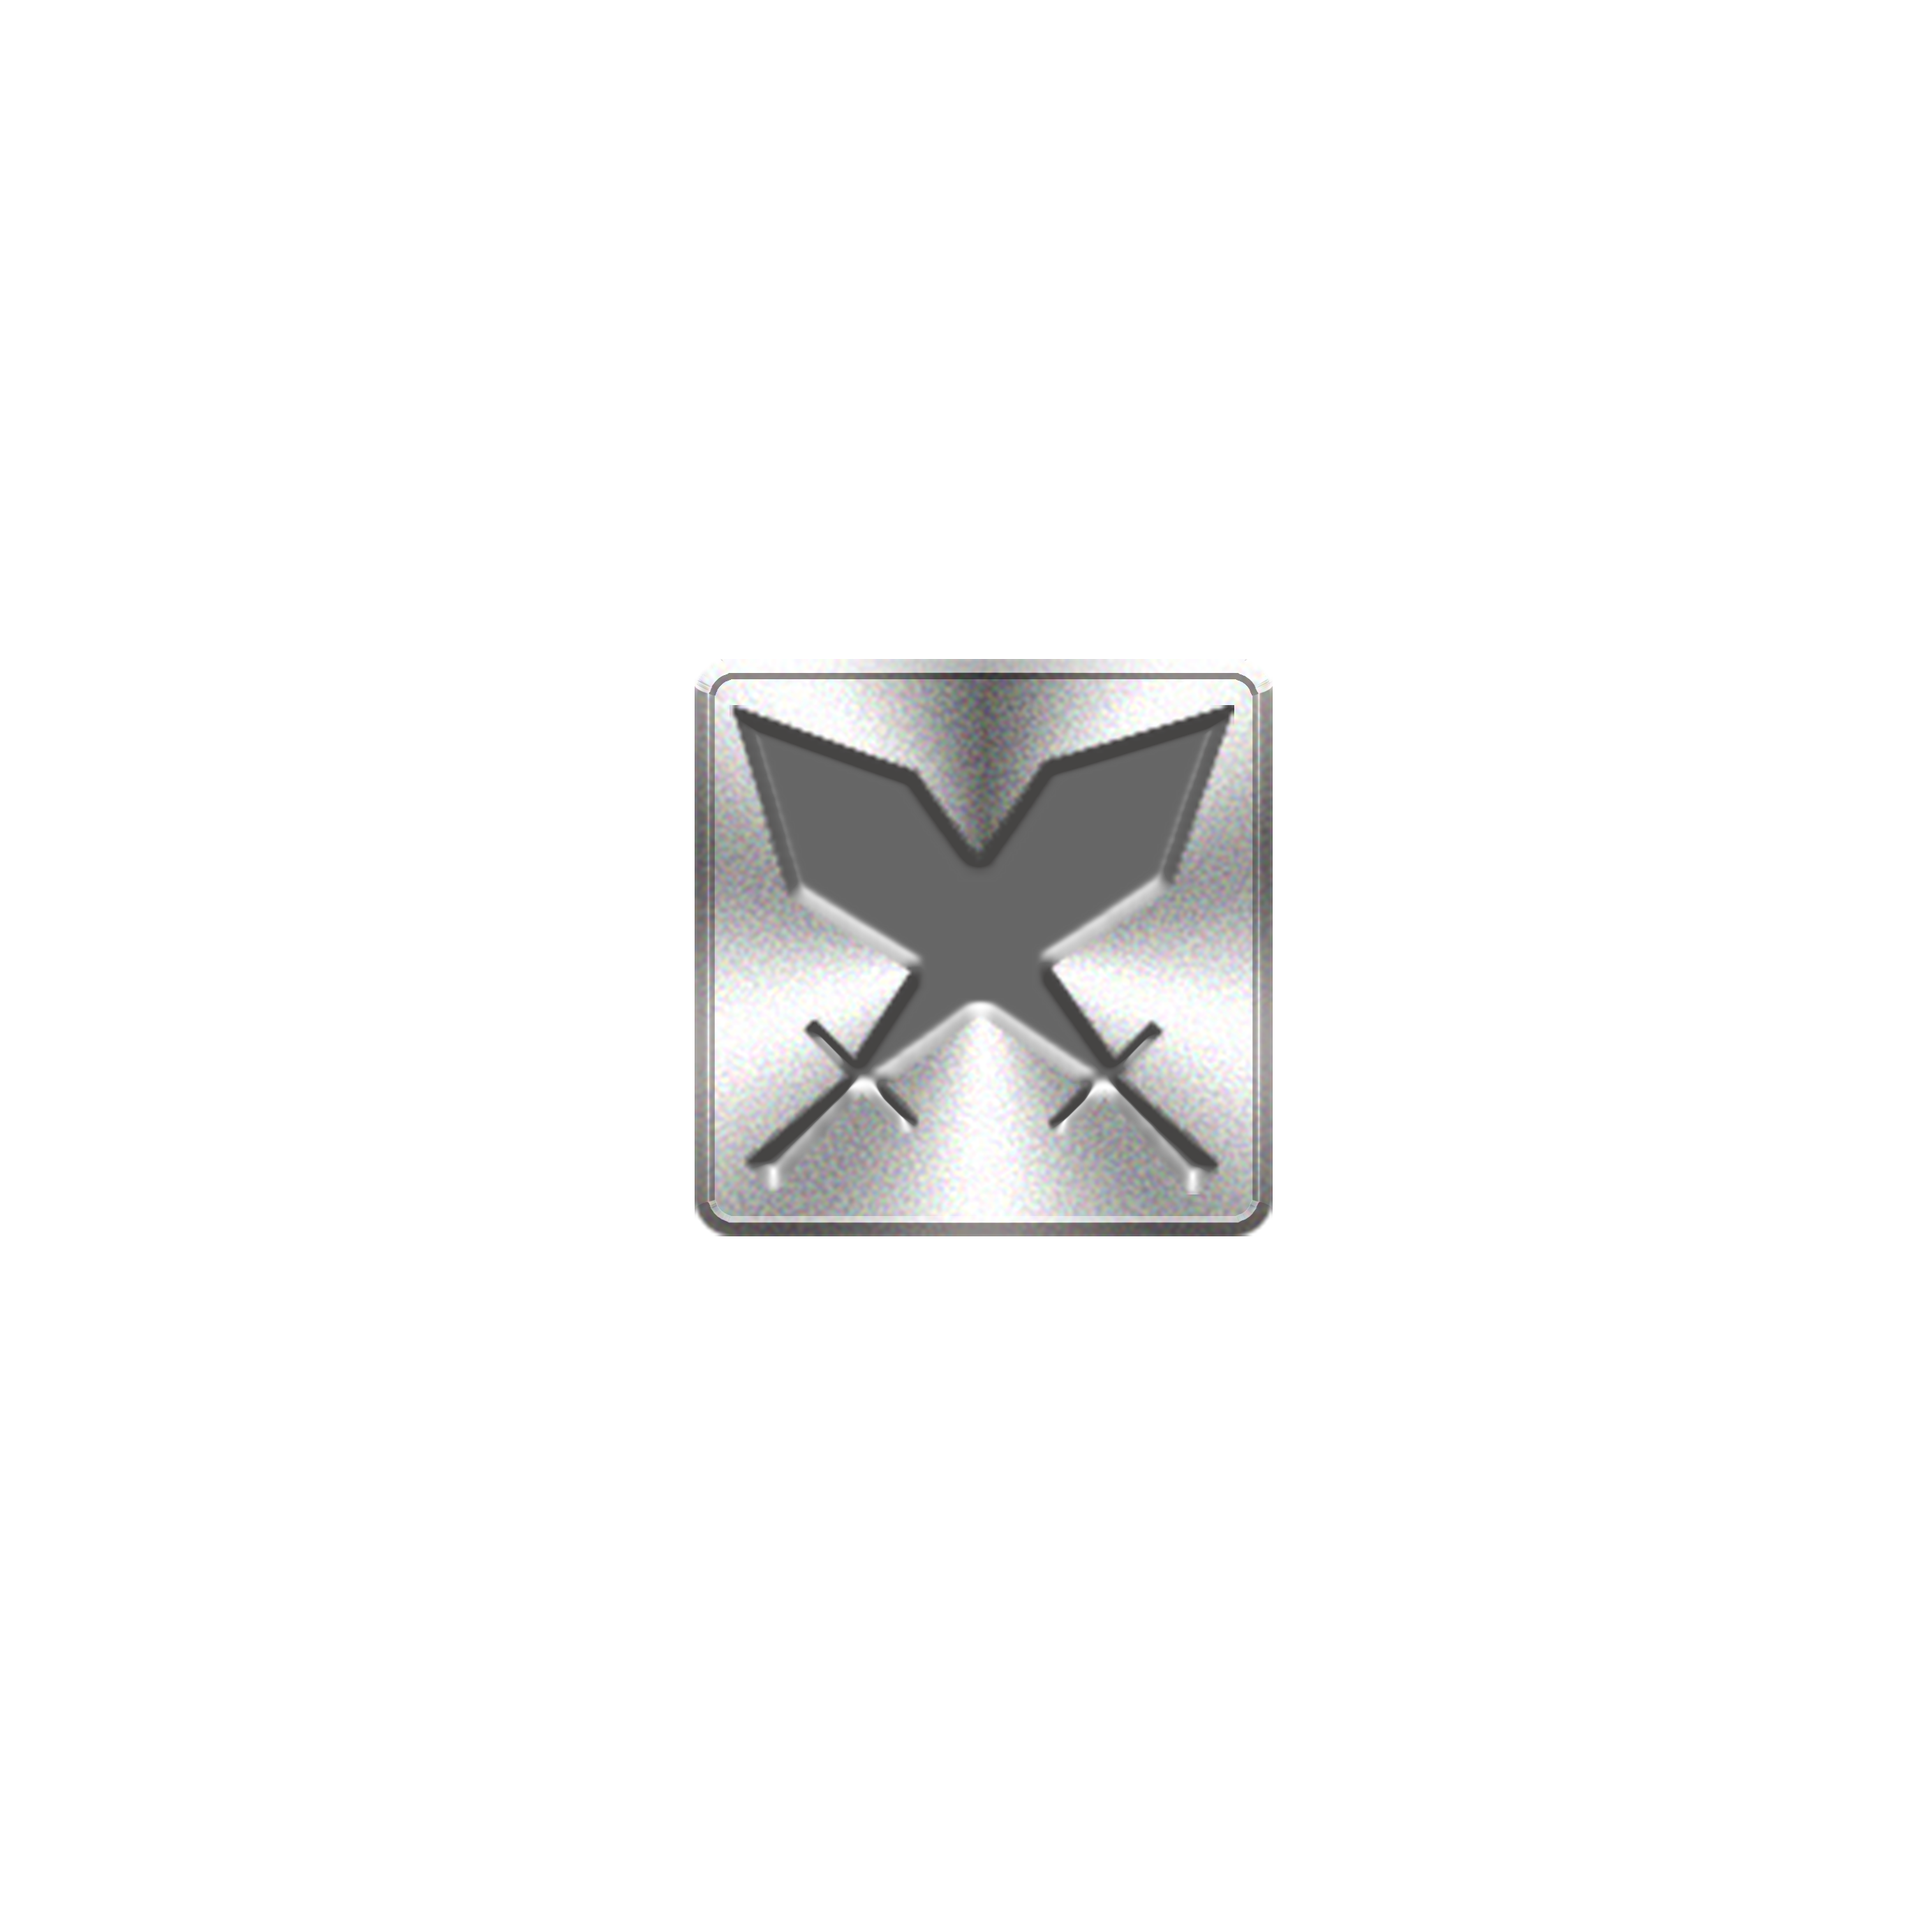
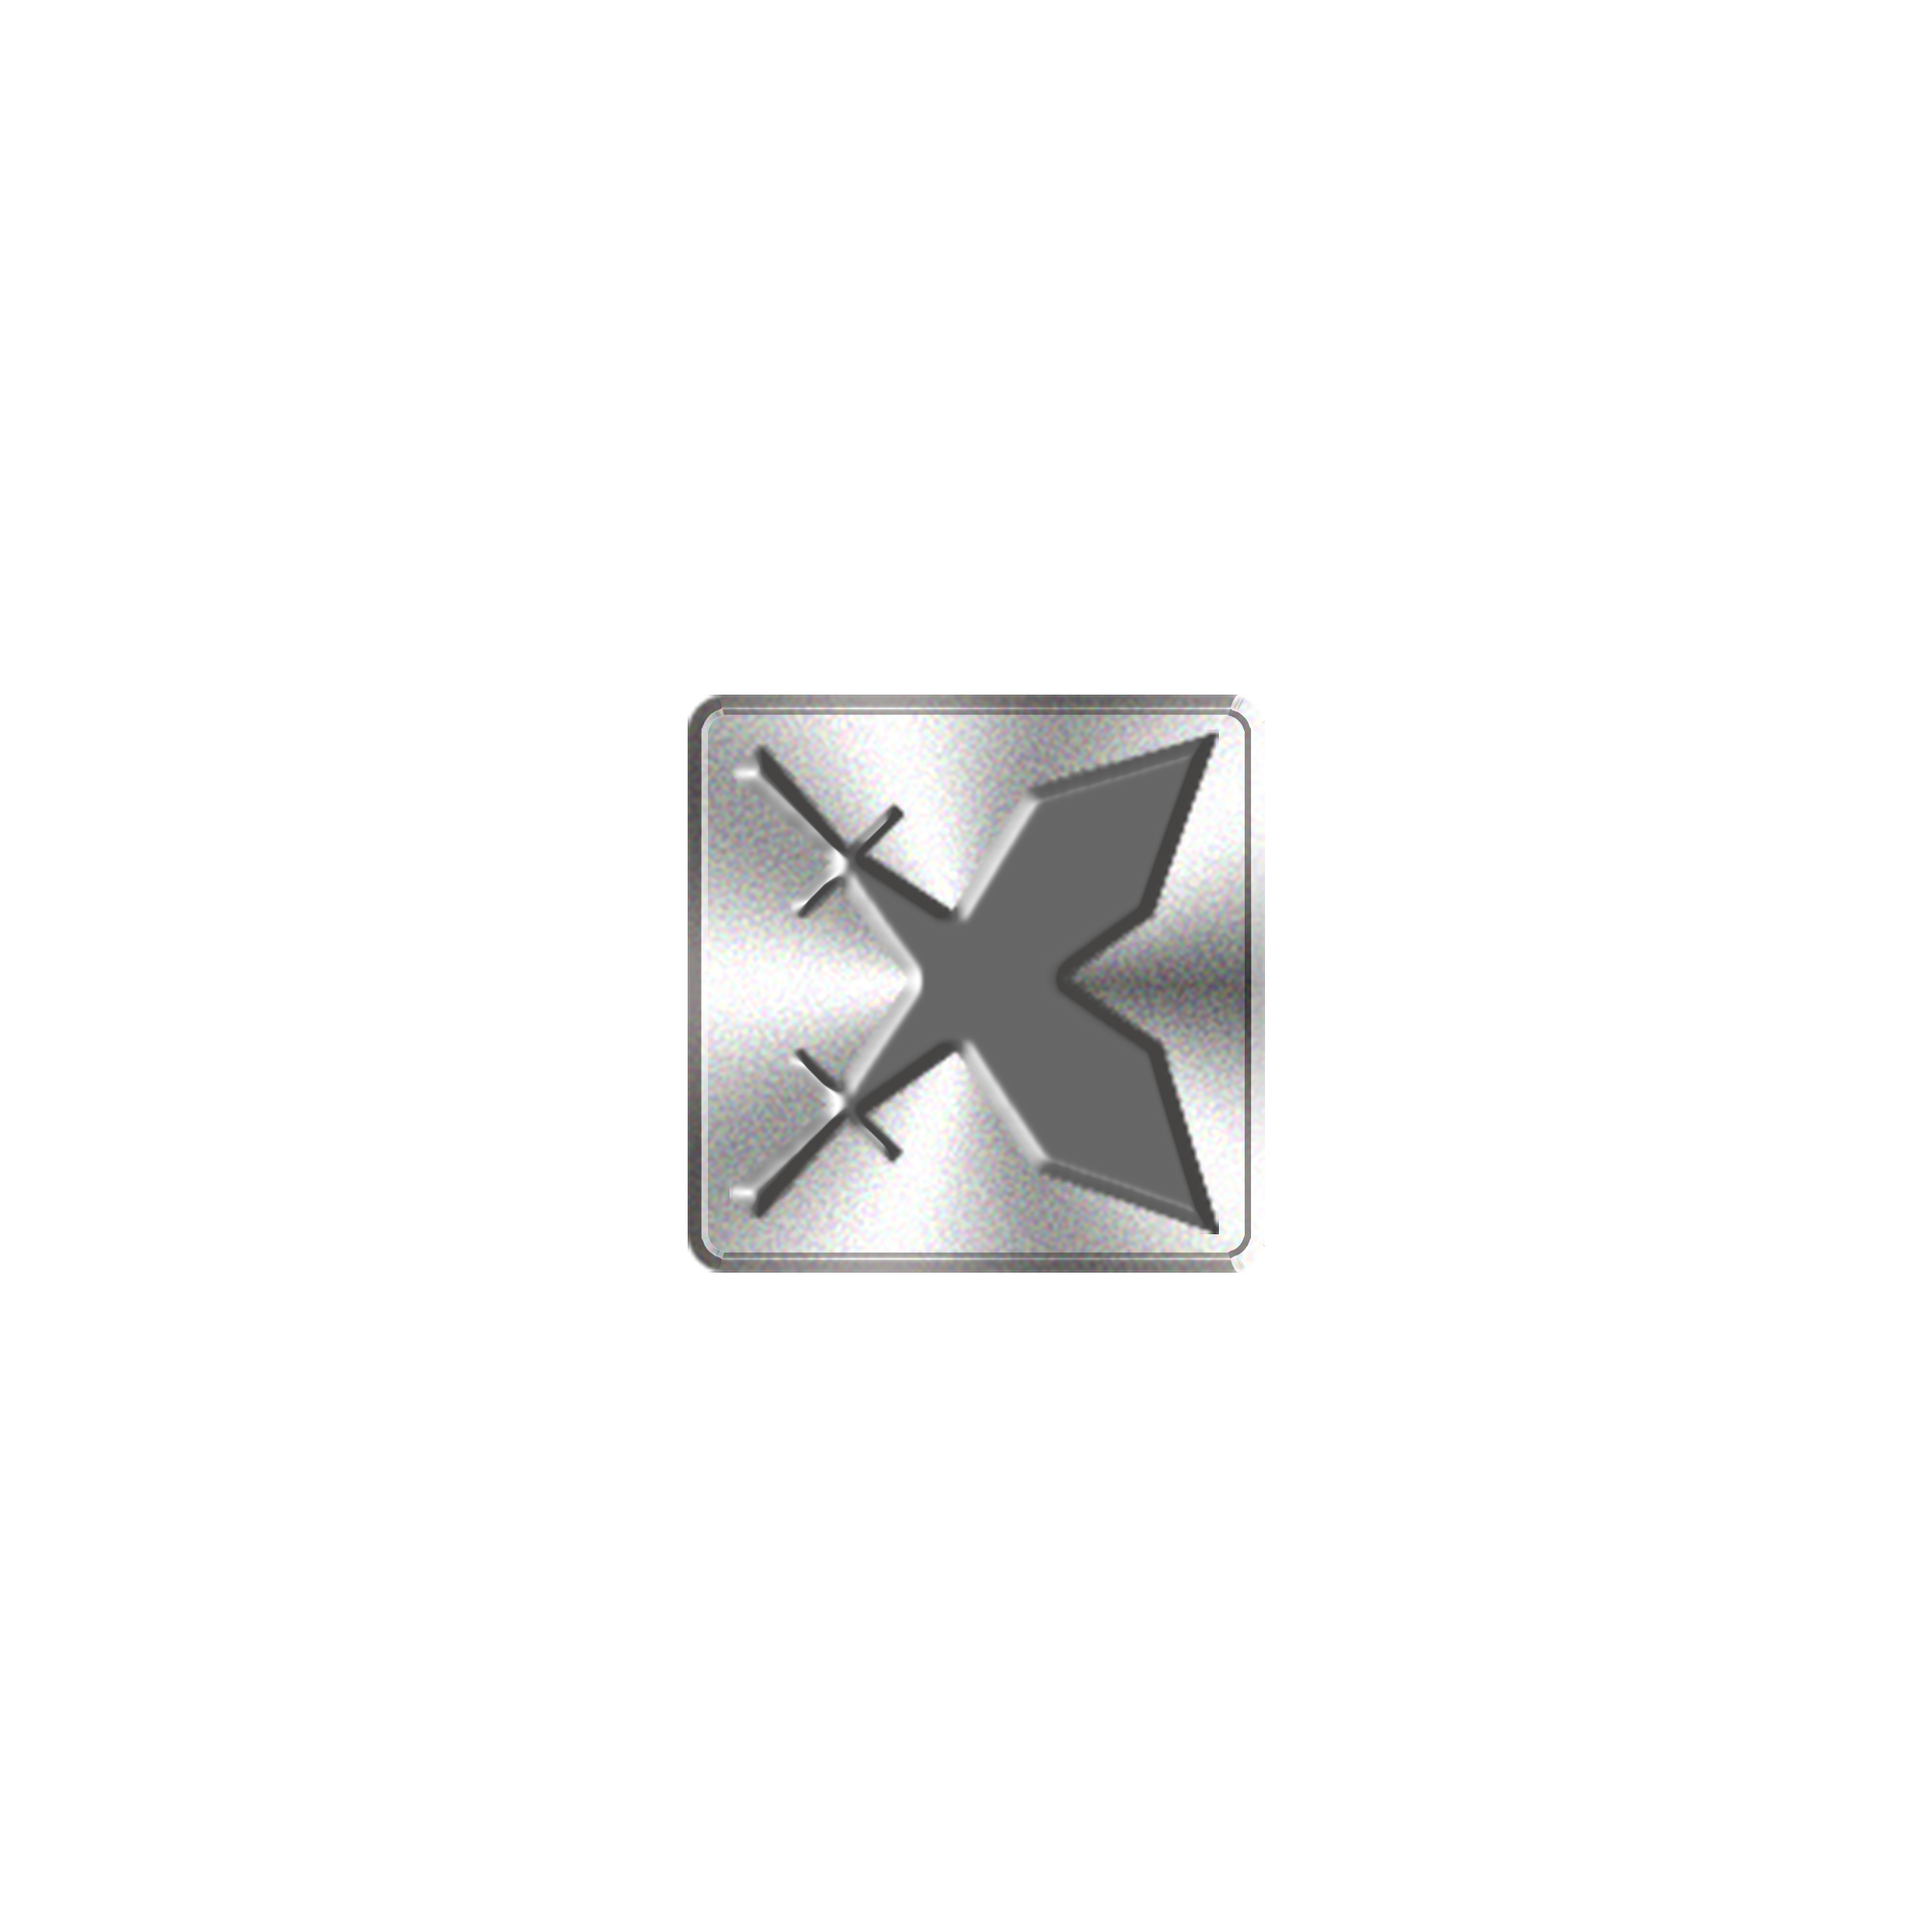
画像差し替えたけどレイアウト疑問

Changed region(s): [[0.3433, 0.3433, 0.6865, 0.6865]]

diff --git a/Assets/Scripts/UIGameScene/ButtonSpawner.cs b/Assets/Scripts/UIGameScene/ButtonSpawner.cs
@@ -58,7 +58,11 @@ public class ButtonSpawner : MonoBehaviour
         entry3.callback.AddListener((data) => { StartFlag(); });
         dragEndtrigger.triggers.Add(entry3);
 
-
+        //スライドで出現処理を行えるようにする処理を行う。
+        EventTrigger.Entry entry4 = new EventTrigger.Entry();
+        entry4.eventID = EventTriggerType.PointerEnter;
+        entry4.callback.AddListener((data) => { EnterFlag(); });
+        dragEndtrigger.triggers.Add(entry4);
         //スライドで出現処理を行えるようにする処理を行う。
         //EventTrigger.Entry entry4 = new EventTrigger.Entry();
         //entry4.eventID = EventTriggerType.PointerClick;
@@ -80,6 +84,15 @@ public class ButtonSpawner : MonoBehaviour
         colorBlocks.disabledColor = new Color(1f, 1f, 1f, 1f);
 
         btn.colors = colorBlocks;
+
+        Image image = this.GetComponent<Image>();
+        if (m_PlayerID==1) {
+            image.sprite = Resources.Load("UI/Game/flick", typeof(Sprite)) as Sprite;
+        }
+        else
+        {
+            image.sprite = Resources.Load("UI/Game/flick2", typeof(Sprite)) as Sprite;
+        }
     }
 
     public void StartFlag()
@@ -99,10 +112,35 @@ public class ButtonSpawner : MonoBehaviour
                     colorBlocks.highlightedColor = new Color(1f, 1f, 1f, 1f);
                     btn.colors = colorBlocks;
 
+                    Image image = this.GetComponent<Image>();
+                    if (m_PlayerID == 1)
+                    {
+                        image.sprite = Resources.Load("UI/Game/center_active", typeof(Sprite)) as Sprite;
+                    }
+                    else
+                    {
+                        image.sprite = Resources.Load("UI/Game/center_active2", typeof(Sprite)) as Sprite;
+                    }
+
                     m_startFlag = true;
                     return;
                 }
             }
+        }
+    }
+
+    public void EnterFlag()
+    {
+        m_spawnerFlag = false;
+
+        Image image = this.GetComponent<Image>();
+        if (m_PlayerID == 1)
+        {
+            image.sprite = Resources.Load("UI/Game/center_active", typeof(Sprite)) as Sprite;
+        }
+        else
+        {
+            image.sprite = Resources.Load("UI/Game/center_active2", typeof(Sprite)) as Sprite;
         }
     }
 
@@ -240,36 +278,65 @@ public class ButtonSpawner : MonoBehaviour
 	}
 
     //兵士の選択を変える処理に入る
-    public void SolderChange()
+    public void SolderImageChange()
     {
-        switch (m_type)
+        Image image = this.GetComponent<Image>();
+
+
+        if (m_PlayerID == 1)
         {
+            if (Mathf.Abs(TouchManager.GetTouchMoveDistanceX(m_nowTouchNumber)) > Mathf.Abs(TouchManager.GetTouchMoveDistanceY(m_nowTouchNumber)))
+            {
 
-            //剣から槍へ
-            case Character.CharacterType.Sword:
+                if (TouchManager.GetTouchMoveDistanceX(m_nowTouchNumber) > 0)
+                {
+                    image.sprite = Resources.Load("UI/Game/ax_active", typeof(Sprite)) as Sprite;
+                }
+                else
+                {
+                    image.sprite = Resources.Load("UI/Game/spear_active", typeof(Sprite)) as Sprite;
+                }
+            }
+            else
+            {
+                if (TouchManager.GetTouchMoveDistanceY(m_nowTouchNumber) > 0)
+                {
+                    image.sprite = Resources.Load("UI/Game/sword_active", typeof(Sprite)) as Sprite;
+                }
+                else
+                {
+                    image.sprite = Resources.Load("UI/Game/shield_active", typeof(Sprite)) as Sprite;
+                }
+            }
+        }
+        else {
+            if (Mathf.Abs(TouchManager.GetTouchMoveDistanceX(m_nowTouchNumber)) > Mathf.Abs(TouchManager.GetTouchMoveDistanceY(m_nowTouchNumber)))
+            {
 
-                m_type = Character.CharacterType.Spear;
-                 break;
-
-            //槍から斧へ
-            case Character.CharacterType.Spear:
-
-                m_type = Character.CharacterType.Ax;
-                 break;
-
-            //斧から盾へ
-            case Character.CharacterType.Ax:
-
-                m_type = Character.CharacterType.Shield;
-                   break;
-
-            //盾から剣へ
-            case Character.CharacterType.Shield:
-
-                m_type = Character.CharacterType.Sword;
-                          break;
+                if (TouchManager.GetTouchMoveDistanceX(m_nowTouchNumber) > 0)
+                {
+                    image.sprite = Resources.Load("UI/Game/spear_active2", typeof(Sprite)) as Sprite;
+                }
+                else
+                {
+                    image.sprite = Resources.Load("UI/Game/ax_active2", typeof(Sprite)) as Sprite;
+                }
+            }
+            else
+            {
+                if (TouchManager.GetTouchMoveDistanceY(m_nowTouchNumber) > 0)
+                {
+                    image.sprite = Resources.Load("UI/Game/shield_active2", typeof(Sprite)) as Sprite;
+                }
+                else
+                {
+                    image.sprite = Resources.Load("UI/Game/sword_active2", typeof(Sprite)) as Sprite;
+                }
+            }
         }
     }
+
+
 
     void Start()
     {
@@ -321,6 +388,11 @@ public class ButtonSpawner : MonoBehaviour
                 }
                 m_soliderDoubleStart = false;
             }
+        }
+
+        if ( m_spawnerFlag)
+        {
+            SolderImageChange();
         }
     }
 }

diff --git a/Assets/Scripts/Manager/GameUIManager.cs b/Assets/Scripts/Manager/GameUIManager.cs
@@ -152,16 +152,27 @@ public class GameUIManager : MonoBehaviour {
         Transform soldierbutton = new GameObject("SoliderButton").transform;
         for (int i = 1; i <= 2; i++)
         {
+            string imgName;
+
+            if (i == 1)
+            {
+                imgName = "UI/Game/flick";
+            }
+            else
+            {
+                imgName = "UI/Game/flick2";
+            }
             for (int j = 1; j <= 5; j++)
             {
+                
                 obj = MyUtility.CreateSprite(
                  soldierbutton,
                  "SoldierButton",
-                 "Image/sword_I");
+                 imgName);
 
                 obj.transform.position = new Vector3((-4.65f + (9.2f * (i - 1))), 0.0f, (4.0f - (2.0f * (j - 1))));
                 obj.transform.eulerAngles = new Vector3(90.0f, 0.0f, 0.0f);
-                obj.transform.localScale = new Vector3(1.75f, 3.5f, 0.75f);
+                obj.transform.localScale = new Vector3(0.1f, 0.08f, 0.1f);
 
             }
         }
@@ -172,11 +183,11 @@ public class GameUIManager : MonoBehaviour {
                 string imageName;
                 if (j==1)
                 {
-                    imageName = "Image/soliderButton";
+                    imageName = "UI/Game/center_active";
                 }
                 else
                 {
-                    imageName = "Image/soliderButton2";
+                    imageName = "UI/Game/center_active2";
                 }
 
                 obj = MyUtility.CreateButton(
